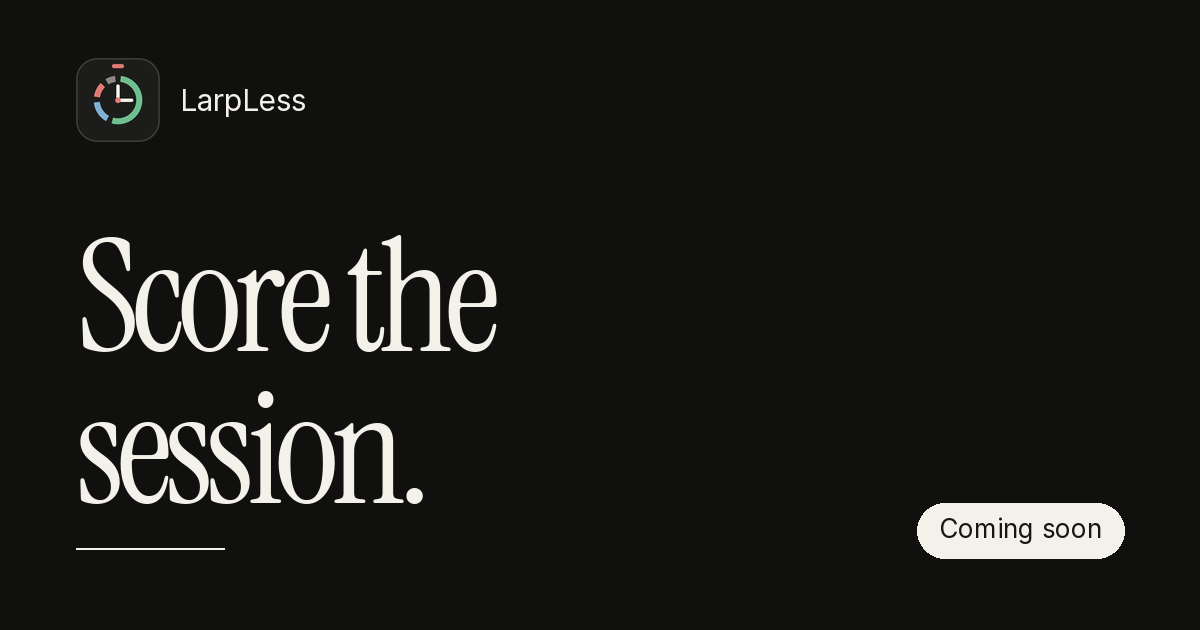
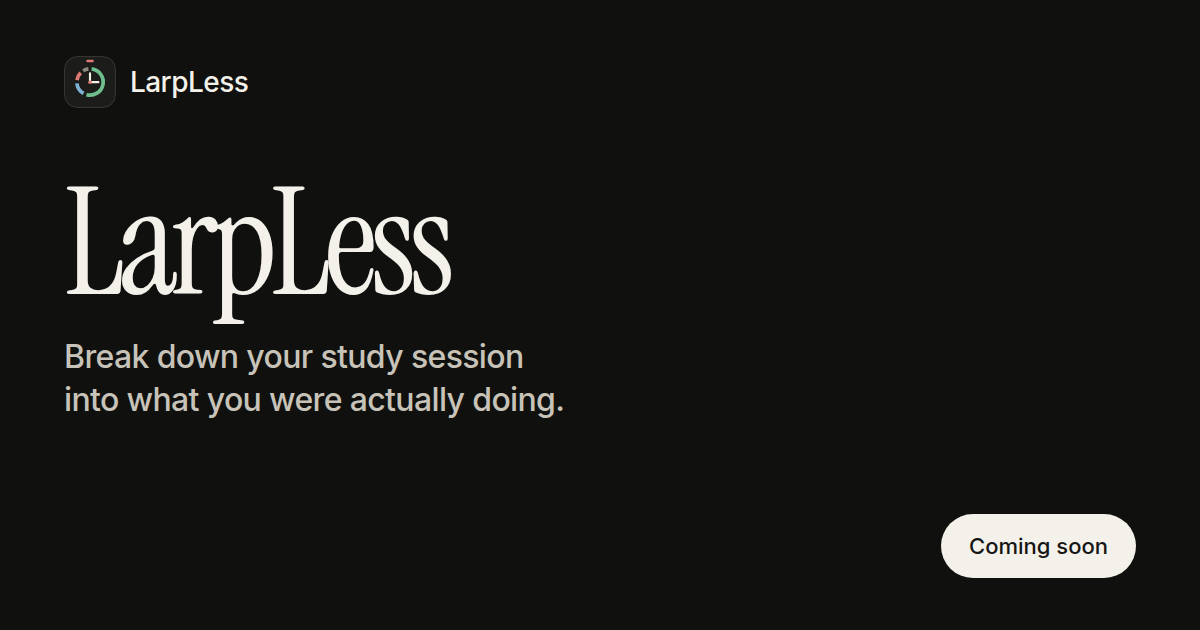
feat: match the share card to the current site line
The page now says what a session is broken into, and the metadata and preview image follow that.

diff --git a/index.html b/index.html
@@ -8,14 +8,14 @@
     <title>LarpLess</title>
     <meta
       name="description"
-      content="Strava for studying. Everything is analysed on your device. Coming soon on Mac and Windows."
+      content="Break down your study session into what you were actually doing. Coming soon on Mac and Windows."
     />
     <meta name="application-name" content="LarpLess" />
     <meta property="og:site_name" content="LarpLess" />
     <meta property="og:title" content="LarpLess" />
     <meta
       property="og:description"
-      content="Strava for studying. Everything is analysed on your device. Coming soon on Mac and Windows."
+      content="Break down your study session into what you were actually doing. Coming soon on Mac and Windows."
     />
     <meta property="og:type" content="website" />
     <meta property="og:locale" content="en_US" />
@@ -23,15 +23,15 @@
     <meta property="og:image:type" content="image/png" />
     <meta property="og:image:width" content="1200" />
     <meta property="og:image:height" content="630" />
-    <meta property="og:image:alt" content="LarpLess. Coming soon." />
+    <meta property="og:image:alt" content="LarpLess. Break down your study session into what you were actually doing. Coming soon." />
     <meta name="twitter:card" content="summary_large_image" />
     <meta name="twitter:title" content="LarpLess" />
     <meta
       name="twitter:description"
-      content="Strava for studying. Everything is analysed on your device. Coming soon on Mac and Windows."
+      content="Break down your study session into what you were actually doing. Coming soon on Mac and Windows."
     />
     <meta name="twitter:image" content="./og.png" />
-    <meta name="twitter:image:alt" content="LarpLess. Coming soon." />
+    <meta name="twitter:image:alt" content="LarpLess. Break down your study session into what you were actually doing. Coming soon." />
     <link rel="icon" href="./logo.svg" type="image/svg+xml" />
     <link rel="apple-touch-icon" href="./logo.png" />
     <script type="application/ld+json">
@@ -41,7 +41,7 @@
         "name": "LarpLess",
         "operatingSystem": "macOS, Windows",
         "applicationCategory": "EducationalApplication",
-        "description": "Strava for studying. Everything is analysed on your device. Coming soon on Mac and Windows.",
+        "description": "Break down your study session into what you were actually doing. Coming soon on Mac and Windows.",
         "image": "./og.png"
       }
     </script>
@@ -57,10 +57,7 @@
     <a class="skip" href="#main">Skip to content</a>
     <header class="top">
       <div class="top-inner">
-        <a class="brand" href="#top">
-          <img src="./logo.svg" width="28" height="28" alt="" />
-          LarpLess
-        </a>
+        <a class="brand" href="#top">LarpLess</a>
         <nav class="nav" aria-label="Page">
           <a class="nav-link" href="#how">How it works</a>
           <a class="nav-link" href="#friends">Friends</a>
@@ -77,7 +74,7 @@
               <h1>
                 <span>LarpLess</span>
               </h1>
-              <p class="lede">Strava for studying. Everything is analysed on your device.</p>
+              <p class="lede">Break down your study session into what you were actually doing.</p>
               <div class="poster-action">
                 <button type="button" class="soon soon-lg" disabled>Coming soon</button>
               </div>
@@ -101,7 +98,7 @@
         <section class="band" id="score">
           <div class="section-head">
             <h2>The score.</h2>
-            <p>One afternoon, broken into what you were actually doing.</p>
+            <p>Duration, focus %, and a subject split.</p>
           </div>
 
           <div class="summary">

diff --git a/src/style.css b/src/style.css
@@ -316,7 +316,7 @@ a:hover {
   max-width: 64rem;
   height: auto;
   aspect-ratio: 2000 / 1364;
-  margin: 1.25rem auto 0;
+  margin: 0.65rem auto 0;
   padding: 0.5rem;
   border: 3px solid #6c6c6c;
   border-radius: 22px;
@@ -391,7 +391,7 @@ a:hover {
     width: 100%;
     height: 40rem;
     aspect-ratio: auto;
-    margin-top: 3rem;
+    margin-top: 1.75rem;
     padding: 1.5rem;
     border-width: 4px;
     border-radius: 30px;
@@ -415,7 +415,7 @@ a:hover {
   }
 
   .lede {
-    margin-top: 12px;
+    margin-top: 18px;
   }
 
   .poster-action {
@@ -424,7 +424,7 @@ a:hover {
 
   .ipad {
     width: min(100%, calc((100dvh - 11rem) * 2000 / 1364));
-    margin-top: 1rem;
+    margin-top: 0.5rem;
   }
 }
 
@@ -590,7 +590,7 @@ a:hover {
 }
 
 .lede {
-  margin-top: 22px;
+  margin-top: 32px;
   max-width: 28rem;
   color: var(--muted);
   font-size: 1.05rem;
@@ -617,10 +617,11 @@ a:hover {
   }
 
   .hero .lede {
-    margin-top: 1.5rem;
-    max-width: 38rem;
+    margin-top: 2.25rem;
+    max-width: min(56rem, 92vw);
     font-size: clamp(1.3rem, 0.45rem + 1.15vw, 1.75rem);
     line-height: 1.5;
+    text-wrap: pretty;
   }
 
   .section-head {
